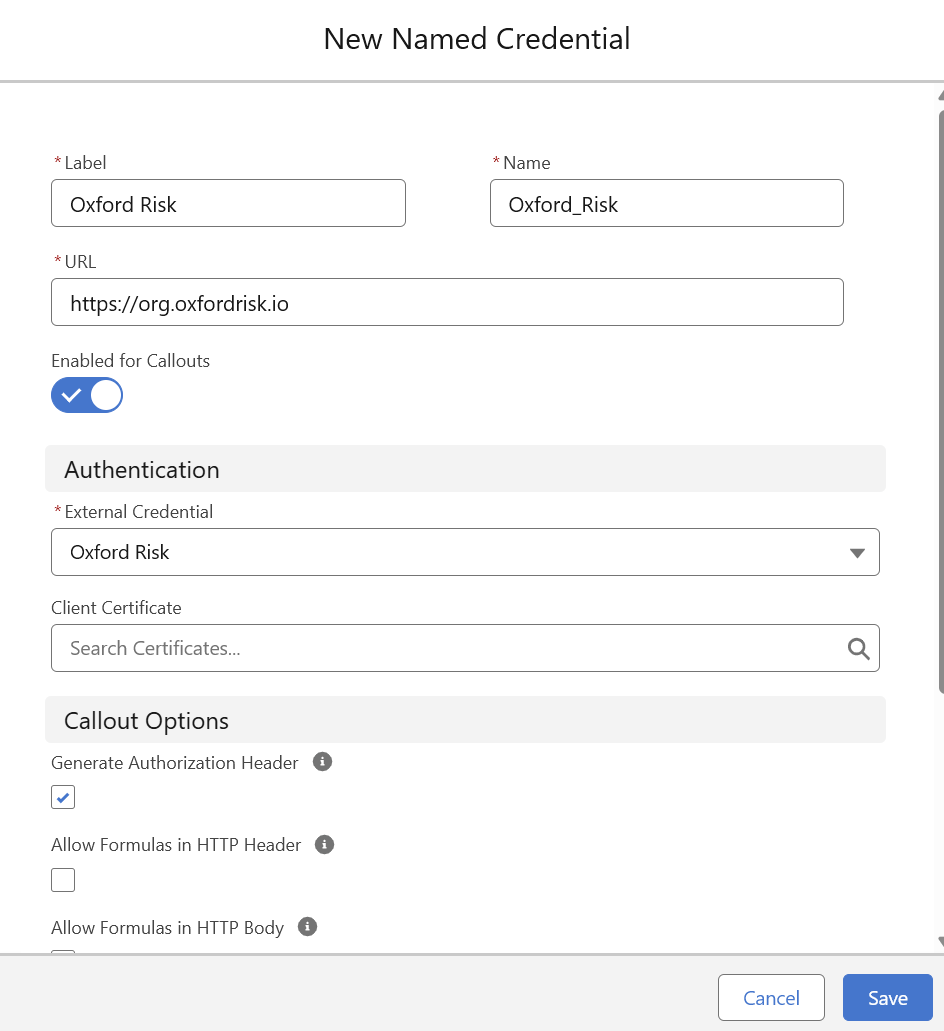
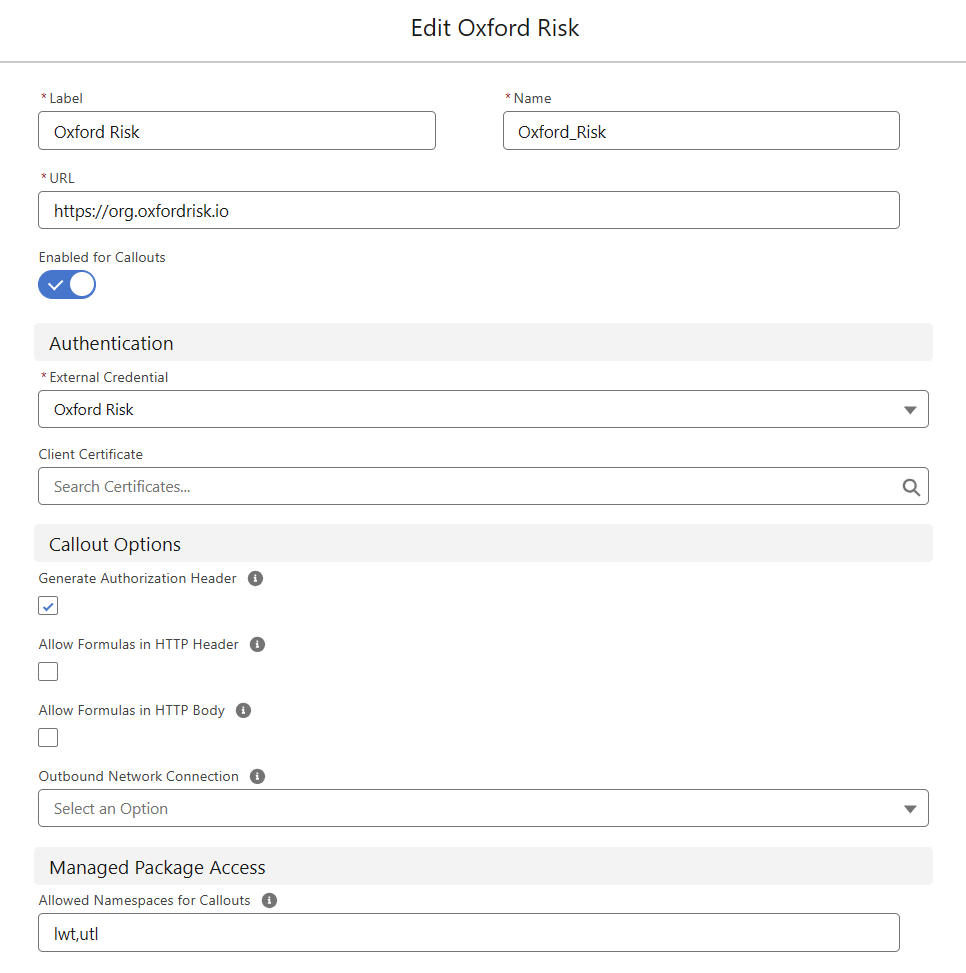
Update readme

diff --git a/README.md b/README.md
@@ -51,7 +51,7 @@ The following packages are optional but recommended.
 |Package Version|0.12.0-1||
 |Last updated date|Feb 13, 2024||
 |Managed Package | <ul><li> `sf package install --wait 30 --security-type AllUsers --package 04tP3000000MVUzIAO`</li><li>`/packaging/installPackage.apexp?p0=04tP3000000MVUzIAO`</li></ul> | [Install in Production](https://login.salesforce.com/packaging/installPackage.apexp?p0=04tP3000000MVUzIAO) | [Install in Sandbox](https://test.salesforce.com/packaging/installPackage.apexp?mgd=true&p0=04tP3000000MVUzIAO)|
-
+|Blog|[Managing User Context and (Error) Logging in Salesforce Auth Providers and Named/External Credentials](https://medium.com/@justusvandenberg/managing-user-context-and-error-logging-in-salesforce-auth-providers-and-named-external-283b0eaac4d)||
 
 
 
@@ -149,6 +149,7 @@ Once you have successfully authenticated your External Credential, there is one 
 - Select your *External Credential* you created in Step 6
 - Make sure `Generate Authorization Header` is selected, this is by default but check it just in case
 - Optionally you can select a namespace and a network if you use private connect
+- !! If you want to test out the demo component you'll need to add `lwt,utl`  in the `Allowed Namespaces for Callouts`
 - Press `Save`
 ![image](/media/08%20-%20Named%20Credential.png)
 
